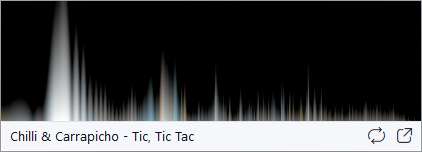
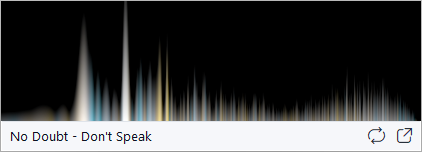
Prepare v1.2.0 release

Changed region(s): [[0.0, 0.0, 1.0, 0.8158], [0.0, 0.8421, 0.4621, 0.9474]]

diff --git a/docs/USER_GUIDE.md b/docs/USER_GUIDE.md
@@ -74,9 +74,8 @@ IRPFFmpeg пытается найти обложку текущего трека
 Доступные настройки:
 
 - язык интерфейса;
-- громкость;
-- бас;
-- верхние частоты;
+- громкость через дуговой контрол в главном окне;
+- пятиполосный параметрический эквалайзер `30 / 200 / 2000 / 10000 / 16000 Hz`;
 - Stereo Width;
 - Exciter;
 - DeepBass;
@@ -85,7 +84,7 @@ IRPFFmpeg пытается найти обложку текущего трека
 - GainRider;
 - финальный лимитер.
 
-Компрессор разборчивости речи поднимает тихие фразы и мягко сжимает громкие места, чтобы речь не терялась на станциях с большим динамическим разбросом. GainRider полезен для контроля пиков и удержания комфортного уровня. LUFS-нормализация станций медленно приводит уровень разных потоков к единому ориентиру `-9.00 LUFS`, чтобы переключение между станциями было комфортнее. Stereo Width, Exciter и DeepBass лучше использовать умеренно: слишком большие значения могут сделать звук менее естественным.
+Левый клик по контролу громкости увеличивает уровень, правый уменьшает; также поддерживаются колесо мыши и клавиши со стрелками. Кнопка эквалайзера открывает отдельное окно, где для каждой из пяти полос есть большой регулятор усиления, малый регулятор добротности `Q` и живой график суммарной АЧХ. Компрессор разборчивости речи поднимает тихие фразы и мягко сжимает громкие места, чтобы речь не терялась на станциях с большим динамическим разбросом. GainRider после всех фильтров контролирует активность финального лимитера и уменьшает общий уровень, когда лимитер начинает слишком сильно сжимать сигнал. LUFS-нормализация станций хранит 120-секундную историю потока и приводит его к ориентиру `-9.00 LUFS`; отдельный быстрый аудиоконтур снимает оставшееся усиление при резком росте громкости, не сбрасывая историю и не используя metadata. Stereo Width, Exciter и DeepBass лучше использовать умеренно: слишком большие значения могут сделать звук менее естественным.
 
 Язык интерфейса можно выбрать в настройках. Файлы локализации лежат в папке `Language` рядом с exe, а выбранный язык сохраняется между запусками в `app.dat`.
 

diff --git a/README.md b/README.md
@@ -6,17 +6,21 @@ IRPFFmpeg is a desktop internet radio player for Windows. It plays network audio
 
 The project is a lightweight C++17 Win32 application: no Electron, no browser shell, with a separate launcher that prepares the FFmpeg/SDL2 DLL environment.
 
-![IRPFFmpeg main window](docs/assets/main-window.png)
+![IRPFFmpeg normal mode](normal_mode.png)
 
 Main window: playlist management, playback controls, stream status, cover art, history and spectrum visualization in the normal layout.
 
-![IRPFFmpeg settings window](window_programm_setting.png)
+![IRPFFmpeg parametric equalizer](equalizer_window.png)
 
-Settings window: language selection, audio processing modules, tray behavior, cover popup and compact-mode options.
+Parametric equalizer: five bands with independent Gain/Q controls and a live graph of the resulting frequency response.
 
 ![IRPFFmpeg compact mode](compact_mode.png)
 
 Compact mode: a small spectrum window with the current track line, previous-station button and restore-to-normal button.
+
+![IRPFFmpeg settings window](window_programm_setting.png)
+
+Settings window: language selection, audio processing modules, tray behavior, cover popup and compact-mode options.
 
 ## Features
 
@@ -30,7 +34,7 @@ Compact mode: a small spectrum window with the current track line, previous-stat
 - record the current broadcast to `Rec`;
 - export recordings to MP3 320 kbit/sec or FLAC;
 - write metadata and cover art to recordings when available;
-- adjust volume, bass and treble;
+- adjust volume from the dedicated arc control and tune a five-band parametric equalizer with a live summed frequency-response graph;
 - Stereo Width, Exciter, DeepBass, Speech Intelligibility Compressor, Station LUFS Normalizer, GainRider and final limiter;
 - minimize to the system tray;
 - compact mode with spectrum visualization, current track text, previous-station button and restore-to-normal button;
@@ -52,7 +56,7 @@ It is better not to run `IRPFFmpeg.exe` directly: the main application needs lib
 Recommended download flow from GitHub Releases:
 
 1. Download the DLL support archive `IRPFFmpeg-support-win-x64.zip` once if you do not already have a `heap_dll` folder with third-party DLLs.
-2. Download the project archive for the current version, for example `IRPFFmpeg-v1.1.0-project-win-x64.zip`.
+2. Download the project archive for the current version, for example `IRPFFmpeg-v1.2.0-project-win-x64.zip`.
 3. Extract both archives into the same folder.
 4. Run `Start_IRPFFmpeg.exe`.
 

diff --git a/CHANGELOG.md b/CHANGELOG.md
@@ -4,11 +4,11 @@
 
 Формат основан на идее Keep a Changelog, версии можно отмечать тегами GitHub Releases.
 
-## Unreleased
+## v1.2.0 - 2026-07-11
 
-- Главный `README.md` переключен на английскую версию для GitHub; русская версия перенесена в `README_RU.md`.
-- В README добавлены описания для каждого скриншота.
-- Исправлено восстановление обложки при выходе из compact mode, если обложка сменилась во время compact mode.
+- Переработан интерфейс normal и compact mode: увеличена область обложки, обновлены управление громкостью, компоновка основных кнопок и отображение обложек.
+- Добавлен высококачественный пятиполосный параметрический эквалайзер с индивидуальной настройкой Gain/Q, сохранением параметров и графиком результирующей АЧХ в реальном времени.
+- Усилена защита слуха и комфорт при прослушивании разных радиопотоков: LUFS-нормализация сохраняет долгосрочный уровень станции и быстрее снимает опасное усиление, а GainRider и мягкий финальный лимитер независимо контролируют сигнал после эффектов.
 
 ## v1.1.0 - 2026-07-05
 

diff --git a/docs/RELEASE.md b/docs/RELEASE.md
@@ -73,6 +73,8 @@ IRPFFmpeg-vX.Y.Z-project-win-x64.zip
 
 Обычно не добавляйте `app.dat`: приложение должно стартовать и после удаления этого файла. Если `app.dat` все же нужен как стартовое состояние, перед публикацией проверьте, что в нем нет личных или тестовых данных.
 
+В project-архив `v1.2.0` по решению владельца релиза намеренно включены подготовленные `playlist.m3u` и `app.dat` как стартовый плейлист и состояние приложения.
+
 Не добавляйте в project-архив `heap_dll` и сторонние DLL.
 
 ## Runtime Layout
